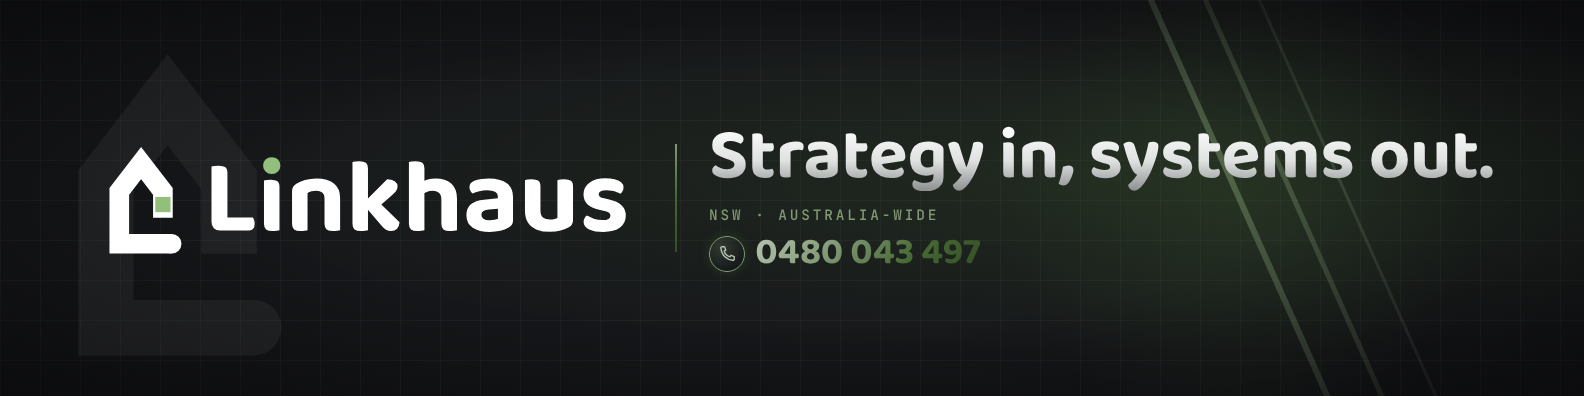
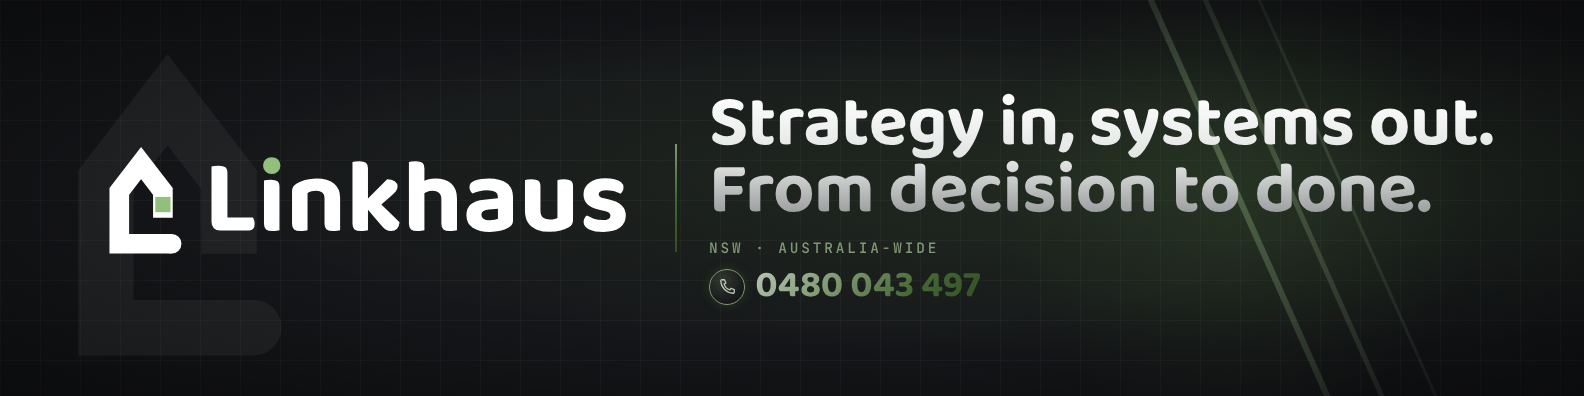
Use combined tagline with a set line break; fit set lines to their box
Tagline: "Strategy in, systems out. / From decision to done."
Generators: a "\n" in business.tagline now sets the line break on the designs, and
those lines shrink to fit instead of wrapping mid-sentence. Plain taglines render as
before. To be upstreamed to the template.

Claude-Session: https://claude.ai/code/session_01UhPmmtheFE3wQYrgKXNNyD

Changed region(s): [[0.4331, 0.2424, 0.959, 0.5758], [0.4331, 0.6061, 0.6187, 0.7576]]

diff --git a/kit/style-guide.html b/kit/style-guide.html
@@ -30,7 +30,7 @@ ul.rules li{margin:6px 0}
     <g transform="translate(3580,0) scale(1,-1)"><path d="M447 140Q447 67 392.0 25.5Q337 -16 232 -16Q150 -16 97.0 8.0Q44 32 44 79Q44 100 53.0 115.5Q62 131 76 140Q104 124 141.5 110.5Q179 97 227 97Q300 97 300 139Q300 157 287.0 167.5Q274 178 244 183L202 193Q122 210 82.5 245.5Q43 281 43 343Q43 413 99.5 454.5Q156 496 252 496Q300 496 339.5 486.5Q379 477 402.0 457.5Q425 438 425 409Q425 389 417.0 374.0Q409 359 396 349Q385 356 362.5 364.0Q340 372 313.5 377.0Q287 382 264 382Q228 382 208.0 372.5Q188 363 188 343Q188 330 199.5 320.5Q211 311 240 305L280 295Q369 275 408.0 237.5Q447 200 447 140Z" fill="#FFFFFF"/></g>
 </svg></div></div>
 <h1>Linkhaus</h1>
-<p class="lead">Strategy in, systems out.<br>Operations Partner · Growth Partner · Full Partner · Project work<br>Serving NSW and Australia-wide.</p>
+<p class="lead">Strategy in, systems out. From decision to done.<br>Operations Partner · Growth Partner · Full Partner · Project work<br>Serving NSW and Australia-wide.</p>
 
 <h2>Logo</h2>
 <div class="grid"><div><div class="tile dark"><div><svg xmlns="http://www.w3.org/2000/svg" viewBox="-135.5 -1965.0 4332.0 2100.6" style="display:block;height:100%;width:auto;max-width:100%;overflow:visible">
@@ -101,7 +101,7 @@ ul.rules li{margin:6px 0}
 <div class="grid"><div class="sw"><div class="c" style="background:#16171A"></div><div class="m"><b>Ink 900</b><span class="mono">#16171A · RGB 22 23 26 · CMYK 15 / 12 / 0 / 90</span><br>Primary text and primary dark surface.</div></div><div class="sw"><div class="c" style="background:#212226"></div><div class="m"><b>Ink 700</b><span class="mono">#212226 · RGB 33 34 38 · CMYK 13 / 11 / 0 / 85</span><br>Secondary dark surface.</div></div><div class="sw"><div class="c" style="background:#5B5D63"></div><div class="m"><b>Grey 500</b><span class="mono">#5B5D63 · RGB 91 93 99 · CMYK 8 / 6 / 0 / 61</span><br>Secondary text, muted icons.</div></div><div class="sw"><div class="c" style="background:#E2E3E0"></div><div class="m"><b>Grey 100</b><span class="mono">#E2E3E0 · RGB 226 227 224 · CMYK 0 / 0 / 1 / 11</span><br>Dividers, subtle fills.</div></div><div class="sw"><div class="c" style="background:#FFFFFF"></div><div class="m"><b>Paper</b><span class="mono">#FFFFFF · RGB 255 255 255 · CMYK 0 / 0 / 0 / 0</span><br>Primary light surface; text on dark.</div></div><div class="sw"><div class="c" style="background:#2D4422"></div><div class="m"><b>Haus Green 800</b><span class="mono">#2D4422 · RGB 45 68 34 · CMYK 34 / 0 / 50 / 73</span><br>Pressed and active states.</div></div><div class="sw"><div class="c" style="background:#446732"></div><div class="m"><b>Haus Green</b><span class="mono">#446732 · RGB 68 103 50 · CMYK 34 / 0 / 51 / 60</span><br>The accent: buttons, links and the window in the mark on light backgrounds.</div></div><div class="sw"><div class="c" style="background:#93BF7D"></div><div class="m"><b>Haus Green 400</b><span class="mono">#93BF7D · RGB 147 191 125 · CMYK 23 / 0 / 35 / 25</span><br>Accent on dark surfaces; the window in the mark on dark backgrounds.</div></div><div class="sw"><div class="c" style="background:#E3EDDE"></div><div class="m"><b>Haus Green 100</b><span class="mono">#E3EDDE · RGB 227 237 222 · CMYK 4 / 0 / 6 / 7</span><br>Tints: badges and subtle backgrounds.</div></div></div>
 
 <h2>Type</h2>
-<div class="spec"><div class="s" style="font-family:'Baloo 2','Arial Narrow',Arial,sans-serif;font-weight:700;">Strategy in, systems out.</div><div class="cap">Baloo 2: headlines, social, signage, video</div></div>
+<div class="spec"><div class="s" style="font-family:'Baloo 2','Arial Narrow',Arial,sans-serif;font-weight:700;">Strategy in, systems out. From decision to done.</div><div class="cap">Baloo 2: headlines, social, signage, video</div></div>
 <div class="spec"><div style="font-size:22px;font-family:'Inter','Segoe UI',Arial,sans-serif">AI, automation and growth partner for Australian businesses. Based in NSW, working Australia-wide.</div><div class="cap">Inter: body text, documents, web</div></div>
 <div class="spec"><div class="mono" style="font-size:20px;letter-spacing:.12em;text-transform:uppercase">0480 043 497</div><div class="cap">JetBrains Mono: labels, codes, small print</div></div>
 

diff --git a/kit/README.md b/kit/README.md
@@ -1,6 +1,6 @@
 # Linkhaus brand kit
 
-Strategy in, systems out.
+Strategy in, systems out. From decision to done.
 
 Everything here is a master file. Use the versions in this kit rather than copies from emails or screenshots.
 
